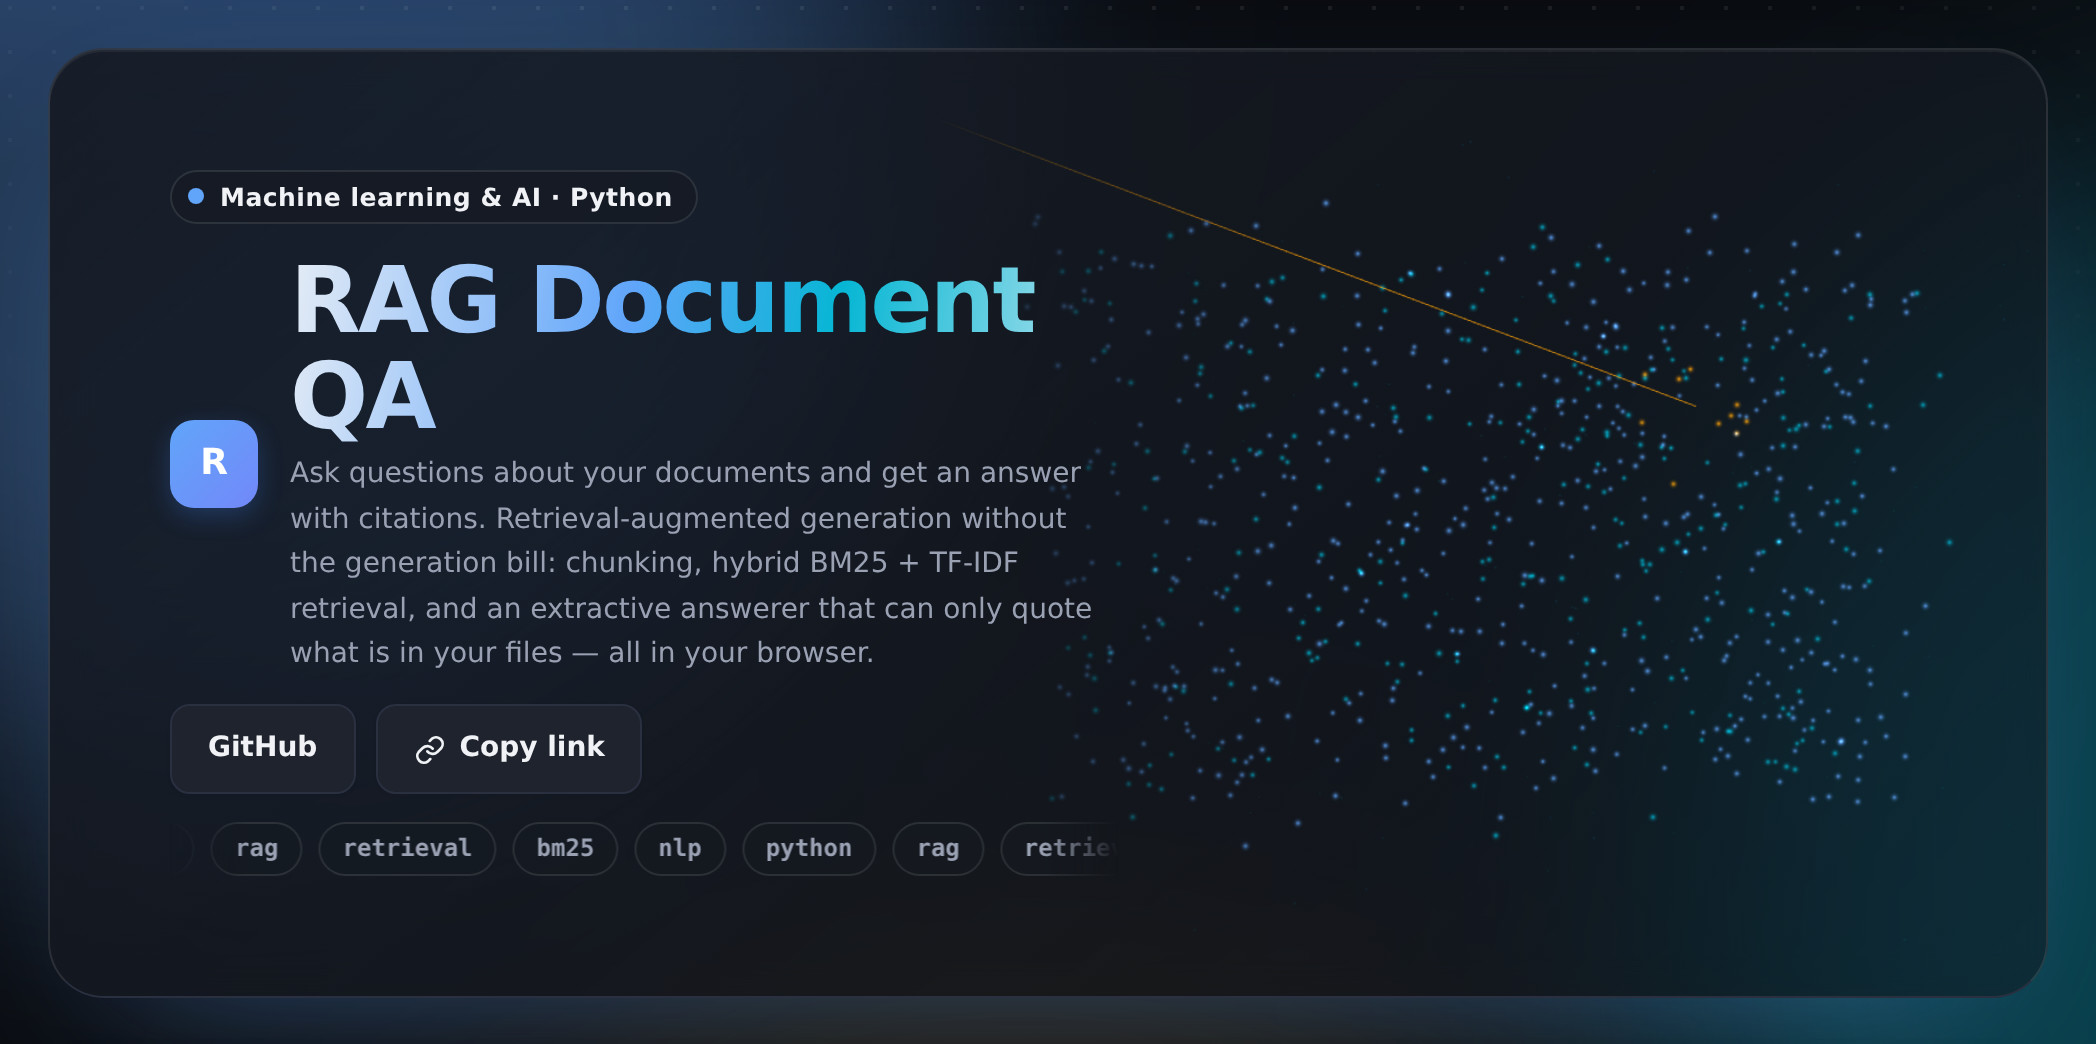
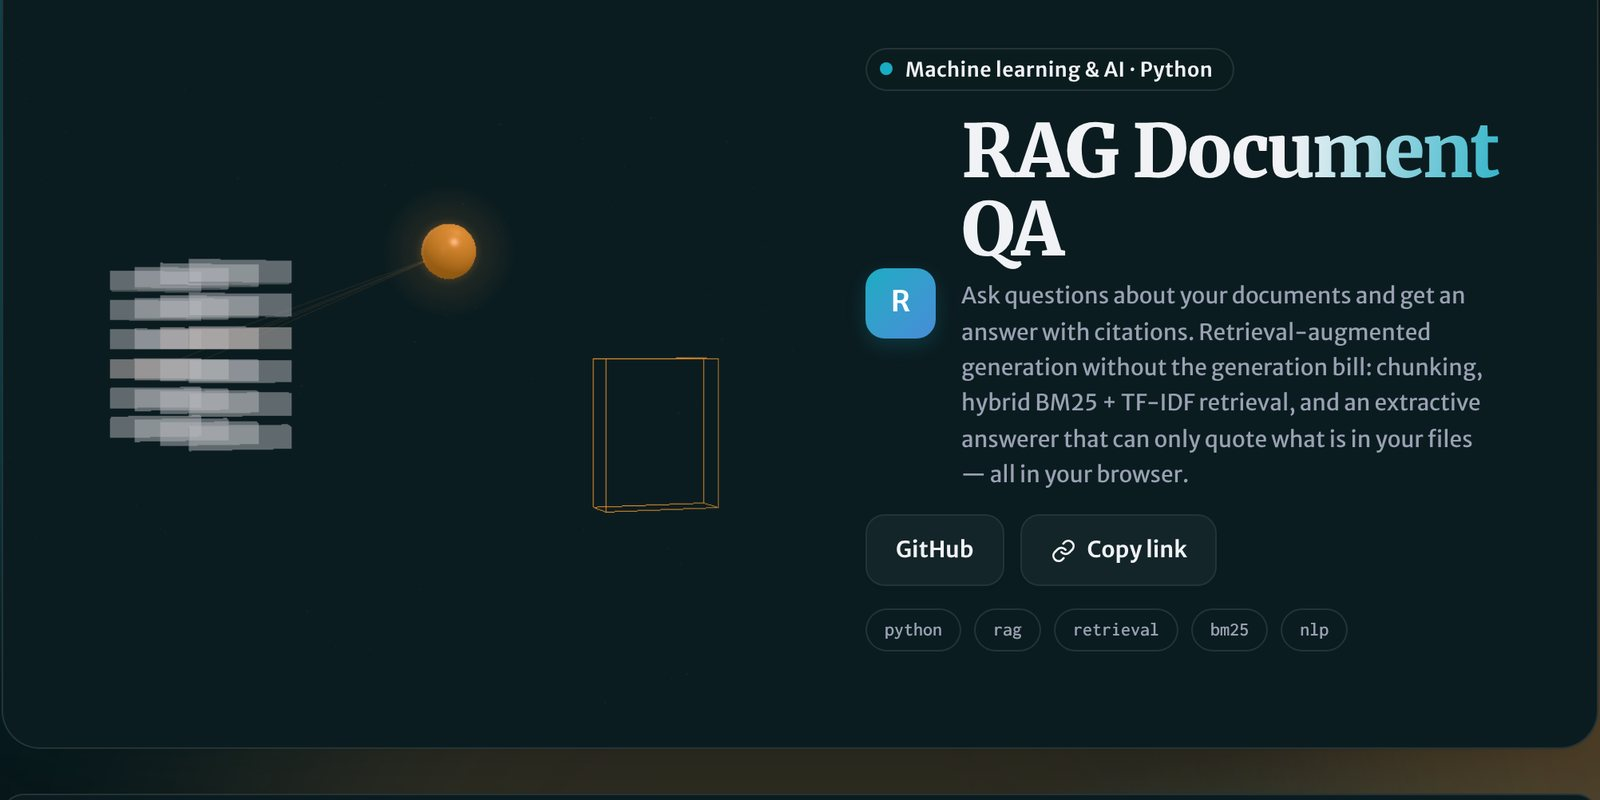
Cleaner page: solid cards and bars with nothing showing through, each tag shown once, no floating 3D window; search tags and fresh previews

diff --git a/docs/fx.css b/docs/fx.css
@@ -18,16 +18,11 @@ body { isolation: isolate; }
 .fx-cursor { position: fixed; left: 0; top: 0; z-index: -1; width: 560px; height: 560px; margin: -280px 0 0 -280px; border-radius: 50%; pointer-events: none; opacity: 0; transition: opacity .4s; background: radial-gradient(circle, color-mix(in srgb, var(--accent) 14%, transparent), transparent 62%); transform: translate3d(var(--x, -999px), var(--y, -999px), 0); }
 .fx-cursor.on { opacity: 1; }
 
-/* the hero: a glass panel with the 3D scene on the right (behind the text on phones) */
+/* the hero: one solid panel with the 3D scene on the right (behind the text on phones) */
 .fx-hero { --pad: clamp(24px, 5vw, 60px); position: relative; isolation: isolate; overflow: hidden; display: flex; flex-direction: column; justify-content: center; align-items: flex-start; gap: 14px;
   min-height: clamp(380px, 56vh, 580px); margin-top: 14px; padding: var(--pad); border: 1px solid var(--fx-line); border-radius: 28px;
-  background: linear-gradient(140deg, color-mix(in srgb, var(--surface, #fff) 92%, transparent), color-mix(in srgb, var(--surface, #fff) 55%, transparent));
-  -webkit-backdrop-filter: blur(10px) saturate(140%); backdrop-filter: blur(10px) saturate(140%); box-shadow: 0 30px 80px -40px color-mix(in srgb, var(--accent) 45%, transparent), 0 1px 0 rgb(255 255 255 / .06) inset; }
-.fx-hero::before { content: ""; position: absolute; inset: -1px; z-index: -1; border-radius: inherit; padding: 1px; pointer-events: none;
-  background: conic-gradient(from var(--fx-angle, 0deg), transparent 0 70%, var(--accent) 80%, var(--fx-2) 88%, transparent 96%);
-  -webkit-mask: linear-gradient(#000 0 0) content-box, linear-gradient(#000 0 0); -webkit-mask-composite: xor; mask-composite: exclude; animation: fx-beam 7s linear infinite; }
-@property --fx-angle { syntax: "<angle>"; inherits: false; initial-value: 0deg; }
-@keyframes fx-beam { to { --fx-angle: 360deg; } }
+  background: var(--surface, #fff);
+  box-shadow: 0 1px 2px rgb(0 0 0 / .06), 0 18px 40px -28px rgb(0 0 0 / .28); }
 .fx-hero > :not(.fx-scene) { position: relative; z-index: 1; max-width: min(600px, 54%); }
 .fx-hero.top > .brand, .fx-hero.top > .actions { max-width: min(600px, 54%); }
 .fx-scene { position: absolute !important; inset: 0 0 0 36%; z-index: 0 !important; pointer-events: none; opacity: 0; transition: opacity 1.4s var(--fx-ease);
@@ -41,10 +36,9 @@ body { isolation: isolate; }
 .fx-title { background: linear-gradient(100deg, var(--text) 0%, var(--text) 30%, var(--accent) 48%, var(--fx-2) 58%, var(--text) 76%) 0 0 / 250% 100%;
   -webkit-background-clip: text; background-clip: text; color: transparent !important; -webkit-text-fill-color: transparent; animation: fx-shine 9s ease-in-out infinite alternate; }
 @keyframes fx-shine { from { background-position: 100% 0; } to { background-position: 0% 0; } }
-.fx-tags { display: flex; gap: 8px; overflow: hidden; width: 100%; -webkit-mask-image: linear-gradient(90deg, transparent, #000 8%, #000 92%, transparent); mask-image: linear-gradient(90deg, transparent, #000 8%, #000 92%, transparent); }
-.fx-tags > div { display: flex; gap: 8px; flex: none; animation: fx-marquee 32s linear infinite; }
-.fx-tags span { flex: none; padding: 4px 11px; border-radius: 999px; font: 600 12px/1.4 var(--mono, ui-monospace, monospace); color: var(--muted); border: 1px solid var(--fx-line); background: color-mix(in srgb, var(--surface, #fff) 60%, transparent); }
-@keyframes fx-marquee { to { transform: translateX(calc(-50% - 4px)); } }
+.fx-tags { display: flex; width: 100%; margin: 0; padding: 0; list-style: none; }
+.fx-tags > div { display: flex; flex-wrap: wrap; gap: 8px; }
+.fx-tags span { flex: none; padding: 4px 11px; border-radius: 999px; font: 600 12px/1.4 var(--mono, ui-monospace, monospace); color: var(--muted); border: 1px solid var(--fx-line); background: var(--surface, #fff); }
 .fx-stats { display: flex; flex-wrap: wrap; gap: 10px 26px; margin-top: 4px; }
 .fx-stats div { display: grid; }
 .fx-stats b { font-size: clamp(22px, 3vw, 30px); font-weight: 800; letter-spacing: -.02em; font-variant-numeric: tabular-nums; }
@@ -52,7 +46,7 @@ body { isolation: isolate; }
 
 /* glass navigation with scroll spy */
 .fx-nav { position: sticky; top: 10px; z-index: 50; display: flex; align-items: center; gap: 6px; margin: 12px 0 0; padding: 6px; border-radius: 16px; border: 1px solid var(--fx-line);
-  background: color-mix(in srgb, var(--surface, #fff) 72%, transparent); -webkit-backdrop-filter: blur(14px) saturate(160%); backdrop-filter: blur(14px) saturate(160%); box-shadow: 0 12px 30px -18px rgb(0 0 0 / .35); overflow-x: auto; scrollbar-width: none; }
+  background: var(--surface, #fff); box-shadow: 0 12px 30px -18px rgb(0 0 0 / .35); overflow-x: auto; scrollbar-width: none; }
 .fx-nav::-webkit-scrollbar { display: none; }
 .fx-nav a { flex: none; padding: 7px 12px; border-radius: 10px; font: 600 13px/1.2 var(--font, system-ui); color: var(--muted); text-decoration: none; transition: color .2s, background .2s; white-space: nowrap; }
 .fx-nav a:hover, .fx-nav a[aria-current="true"] { color: var(--text); background: color-mix(in srgb, var(--accent) 12%, transparent); }
@@ -87,7 +81,7 @@ svg circle.fx-pop { transform-box: fill-box; transform-origin: center; animation
 
 /* the dock: theme, motion, share, back to top */
 .fx-dock { position: fixed; right: max(14px, env(safe-area-inset-right)); bottom: max(14px, env(safe-area-inset-bottom)); z-index: 900; display: flex; gap: 4px; padding: 5px; border-radius: 16px;
-  border: 1px solid var(--fx-line); background: color-mix(in srgb, var(--surface, #fff) 72%, transparent); -webkit-backdrop-filter: blur(14px) saturate(160%); backdrop-filter: blur(14px) saturate(160%);
+  border: 1px solid var(--fx-line); background: var(--surface, #fff);
   box-shadow: 0 16px 40px -18px rgb(0 0 0 / .45); }
 .fx-dock button { display: grid; place-items: center; width: 38px; height: 38px; padding: 0; border: 0; border-radius: 11px; background: transparent; color: var(--text); cursor: pointer; transition: background .2s, transform .25s var(--fx-ease), opacity .3s, width .3s var(--fx-ease); }
 .fx-dock button:hover { background: color-mix(in srgb, var(--accent) 14%, transparent); transform: translateY(-2px); }
@@ -115,7 +109,7 @@ svg circle.fx-pop { transform-box: fill-box; transform-origin: center; animation
   .fx-bg i { filter: blur(50px); }
 }
 @media (prefers-reduced-motion: reduce) {
-  .fx-bg i, .fx-hero::before, .fx-title, .fx-tags > div, .fx-shimmer::after, .fx-eyebrow::before { animation: none !important; }
+  .fx-bg i, .fx-title, .fx-shimmer::after, .fx-eyebrow::before { animation: none !important; }
   .fx-reveal { opacity: 1; transform: none; filter: none; transition: none; }
   svg .fx-draw { animation: none; stroke-dashoffset: 0; }
   svg circle.fx-pop { animation: none; }
@@ -173,21 +167,20 @@ button.fx-reset:hover:not(:disabled) svg { transform: rotate(-70deg); }
 :root[data-look] .btn { border-radius: var(--fx-control-radius); }
 
 /* cards and the hero panel, one family of styles per project */
-:root[data-card="outline"] .card { background: transparent; box-shadow: none; -webkit-backdrop-filter: none; backdrop-filter: none; border: 1px solid color-mix(in srgb, var(--text, #111) 20%, transparent); }
-:root[data-card="outline"] .fx-hero { background: transparent; box-shadow: none; -webkit-backdrop-filter: none; backdrop-filter: none; }
+:root[data-card="outline"] .card { background: var(--surface); box-shadow: none; -webkit-backdrop-filter: none; backdrop-filter: none; border: 1px solid color-mix(in srgb, var(--text, #111) 20%, transparent); }
+:root[data-card="outline"] .fx-hero { box-shadow: none; }
 :root[data-card="solid"] .card { background: var(--surface); -webkit-backdrop-filter: none; backdrop-filter: none; box-shadow: 0 1px 2px rgb(0 0 0 / .06); border: 1px solid var(--border, var(--line)); }
 :root[data-card="solid"] .fx-hero { background: var(--surface); -webkit-backdrop-filter: none; backdrop-filter: none; }
-:root[data-card="raised"] .card { border-color: transparent; box-shadow: 0 26px 50px -30px color-mix(in srgb, var(--accent) 60%, transparent), 0 2px 8px -3px rgb(0 0 0 / .14); }
-:root[data-card="raised"] .fx-hero { box-shadow: 0 40px 90px -45px color-mix(in srgb, var(--accent) 70%, transparent); }
-:root[data-card="brutal"] .card { background: var(--surface); border: 2px solid var(--text, #111); box-shadow: 6px 6px 0 var(--accent); -webkit-backdrop-filter: none; backdrop-filter: none; }
-:root[data-card="brutal"] .fx-hero { background: var(--surface); border: 2px solid var(--text, #111); box-shadow: 9px 9px 0 var(--accent); -webkit-backdrop-filter: none; backdrop-filter: none; }
-:root[data-card="brutal"] .fx-hero::before { display: none; }
+:root[data-card="raised"] .card { border-color: transparent; box-shadow: 0 1px 3px rgb(0 0 0 / .08), 0 14px 32px -22px rgb(0 0 0 / .32); }
+:root[data-card="raised"] .fx-hero { box-shadow: 0 1px 3px rgb(0 0 0 / .08), 0 26px 56px -34px rgb(0 0 0 / .4); }
+:root[data-card="brutal"] .card { background: var(--surface); border: 2px solid color-mix(in srgb, var(--text, #111) 85%, transparent); box-shadow: 0 1px 2px rgb(0 0 0 / .08); -webkit-backdrop-filter: none; backdrop-filter: none; }
+:root[data-card="brutal"] .fx-hero { background: var(--surface); border: 2px solid color-mix(in srgb, var(--text, #111) 85%, transparent); box-shadow: 0 1px 2px rgb(0 0 0 / .08); -webkit-backdrop-filter: none; backdrop-filter: none; }
 :root[data-card="brutal"] .btn { border-width: 2px; }
 :root[data-card="tint"] .card { background: color-mix(in srgb, var(--accent) 7%, var(--surface)); border-color: color-mix(in srgb, var(--accent) 24%, transparent); }
 :root[data-card="tint"] .fx-hero { background: linear-gradient(140deg, color-mix(in srgb, var(--accent) 11%, var(--surface)), color-mix(in srgb, var(--fx-2) 9%, var(--surface))); }
 :root[data-card="rail"] .card { border-left: 4px solid var(--accent); }
 :root[data-card="rail"] .fx-hero { border-left: 6px solid var(--accent); }
-:root[data-card="glass"] .card { background: color-mix(in srgb, var(--surface) 58%, transparent); -webkit-backdrop-filter: blur(20px) saturate(170%); backdrop-filter: blur(20px) saturate(170%); border: 1px solid color-mix(in srgb, #fff 22%, transparent); box-shadow: 0 1px 0 rgb(255 255 255 / .12) inset, 0 18px 40px -30px rgb(0 0 0 / .4); }
+:root[data-card="glass"] .card { background: color-mix(in srgb, var(--surface) 94%, transparent); -webkit-backdrop-filter: blur(14px); backdrop-filter: blur(14px); border: 1px solid color-mix(in srgb, var(--text, #111) 12%, transparent); box-shadow: 0 1px 2px rgb(0 0 0 / .06), 0 16px 36px -28px rgb(0 0 0 / .35); }
 :root[data-card="soft"] .card { border-color: transparent; background: color-mix(in srgb, var(--accent) 4%, var(--surface)); box-shadow: inset 0 0 0 1px color-mix(in srgb, var(--accent) 13%, transparent), 0 14px 32px -24px rgb(0 0 0 / .35); }
 :root[data-card="soft"] .fx-hero { border-color: transparent; }
 
@@ -205,7 +198,7 @@ button.fx-reset:hover:not(:disabled) svg { transform: rotate(-70deg); }
   html[data-hero="center"] :is(.fx-hero, header.top.fx-hero) { align-items: center; text-align: center; padding-bottom: calc(var(--pad) + 270px); justify-content: flex-start; }
   html[data-hero="center"] .fx-hero > :not(.fx-scene), html[data-hero="center"] header.top.fx-hero > :is(.brand, .actions), html[data-hero="center"] header.top.fx-hero .fx-tags { max-width: min(760px, 100%); }
   html[data-hero="center"] header.top.fx-hero > .brand { flex-direction: column; text-align: center; }
-  html[data-hero="center"] :is(.fx-hero .links, header.top.fx-hero > .actions) { justify-content: center; }
+  html[data-hero="center"] :is(.fx-hero .links, header.top.fx-hero > .actions, .fx-tags, .fx-tags > div) { justify-content: center; }
   html[data-hero="center"] .fx-hero .fx-scene, html[data-hero="center"][data-fx-compact] .fx-hero .fx-scene { inset: auto 0 0 0; height: 310px; -webkit-mask-image: linear-gradient(0deg, #000 74%, transparent); mask-image: linear-gradient(0deg, #000 74%, transparent); }
 }
 
@@ -221,7 +214,7 @@ button.fx-reset:hover:not(:disabled) svg { transform: rotate(-70deg); }
 :root[data-motif="plain"] .fx-bg i { opacity: .12; }
 /* the scene follows the reader in a corner window once the hero scrolls away (wide screens only) */
 .fx-pip { position: fixed; left: 18px; bottom: 18px; z-index: 60; width: 200px; height: 130px; border-radius: 16px; overflow: hidden; cursor: pointer; isolation: isolate;
-  background: color-mix(in srgb, var(--surface, #fff) 70%, transparent); -webkit-backdrop-filter: blur(16px) saturate(160%); backdrop-filter: blur(16px) saturate(160%);
+  background: var(--surface, #fff);
   border: 1px solid color-mix(in srgb, var(--accent) 32%, transparent); box-shadow: 0 26px 50px -26px color-mix(in srgb, var(--accent) 60%, transparent), 0 2px 10px rgb(0 0 0 / .12);
   opacity: 0; transform: translateY(18px) scale(.94); transition: opacity .45s var(--fx-ease, ease), transform .45s var(--fx-ease, ease); }
 .fx-pip.on { opacity: 1; transform: none; }
@@ -238,7 +231,7 @@ body:has(input:focus, textarea:focus, select:focus, [contenteditable]:focus) .fx
 :root[data-look] .fx-reveal { transform: perspective(1100px) translateY(30px) rotateX(9deg) scale(.985); transform-origin: 50% 0; }
 :root[data-look] .fx-reveal.fx-in { transform: none; }
 :root[data-look] .card:focus-within { border-color: color-mix(in srgb, var(--accent) 55%, transparent); box-shadow: 0 0 0 1px color-mix(in srgb, var(--accent) 45%, transparent), 0 22px 44px -26px color-mix(in srgb, var(--accent) 65%, transparent); transition: box-shadow .35s, border-color .35s; }
-:root[data-card="brutal"] .card:focus-within { box-shadow: 8px 8px 0 var(--accent); }
+:root[data-card="brutal"] .card:focus-within { box-shadow: 0 0 0 3px color-mix(in srgb, var(--accent) 40%, transparent); }
 /* the page pattern drifts slowly */
 :root[data-look]:not([data-motif="plain"]):not([data-motif="noise"]) .fx-bg b { animation: fx-pan 90s linear infinite; }
 :root[data-motif="grid"] .fx-bg b { --fx-pan: 46px 46px; }

diff --git a/docs/index.html b/docs/index.html
@@ -4,11 +4,6 @@
 <meta charset="utf-8">
 <meta name="viewport" content="width=device-width, initial-scale=1">
 <title>RAG Document QA — Interactive Demo</title>
-<meta property="og:type" content="website">
-<meta property="og:title" content="RAG Document QA — Interactive Demo">
-<meta property="og:description" content="Retrieval-augmented document QA with hybrid BM25 + TF-IDF retrieval — runs in your browser.">
-<meta property="og:url" content="https://umer-78.github.io/rag-document-qa/">
-<meta name="twitter:card" content="summary">
 <meta name="description" content="Retrieval-augmented document QA with hybrid BM25 + TF-IDF retrieval — runs in your browser.">
 <meta name="theme-color" content="#058092" media="(prefers-color-scheme: light)">
 <meta name="theme-color" content="#041215" media="(prefers-color-scheme: dark)">
@@ -265,6 +260,8 @@ html.mk-pre header.top, html.mk-pre main section, html.mk-pre section.card, html
 :root[data-look][data-theme="dark"] { --accent: #19acc3; --accent-hover: #22c0da; --accent-soft: rgb(25 172 195 / 0.14); --accent-glow: rgb(25 172 195 / 0.2); --on-accent: #011519; --fx-2: #ef9b48; --fx-3: #fda856; --bg: #041215; --bg-elevated: #09191c; --surface: #0b1c20; --surface-2: #132528; --surface-3: #1d2f32; --border: #253336; --border-strong: #364549; --line: #253336; }</style>
 <link rel="modulepreload" href="https://cdn.jsdelivr.net/npm/three@0.186.1/build/three.module.min.js" data-fx>
 <link rel="modulepreload" href="fx3d.js" data-fx>
+<link rel="canonical" href="https://umer-78.github.io/rag-document-qa/">
+<script type="application/ld+json">{"@context": "https://schema.org", "@type": "WebApplication", "name": "RAG Document QA — Interactive Demo", "url": "https://umer-78.github.io/rag-document-qa/", "applicationCategory": "DeveloperApplication", "operatingSystem": "Any (runs in a web browser)", "isAccessibleForFree": true, "author": {"@type": "Person", "name": "Umer Hashmi", "url": "https://umer-78.github.io/"}, "description": "Retrieval-augmented document QA with hybrid BM25 + TF-IDF retrieval — runs in your browser.", "image": "https://umer-78.github.io/rag-document-qa/og.jpg", "sameAs": "https://github.com/umer-78/rag-document-qa"}</script>
 </head>
 <body>
   <a class="skip-link" href="#main">Skip to content</a>
@@ -285,7 +282,7 @@ html.mk-pre header.top, html.mk-pre main section, html.mk-pre section.card, html
   <div class="actions">
     <a class="btn" href="https://github.com/umer-78/rag-document-qa" rel="noopener">GitHub</a>
   </div>
-  <div class="fx-tags" aria-hidden="true"><div><span>python</span><span>rag</span><span>retrieval</span><span>bm25</span><span>nlp</span><span>python</span><span>rag</span><span>retrieval</span><span>bm25</span><span>nlp</span></div></div>
+  <div class="fx-tags"><div><span>python</span><span>rag</span><span>retrieval</span><span>bm25</span><span>nlp</span></div></div>
     </header>
 
 <main id="main">

diff --git a/docs/fx3d.js b/docs/fx3d.js
@@ -315,30 +315,7 @@ export function mount(host, kind = 'ml') {
   }
   const wake = () => { if (!stopped && (visible || pip) && !raf) { last = performance.now(); raf = requestAnimationFrame(frame); } };
   addEventListener('fx:motion', wake);
-  // once the hero scrolls away on a wide screen, the scene follows the reader in a small window at the corner
-  const roomy = matchMedia('(min-width: 1360px) and (pointer: fine)');
-  let dismissed = false;
-  try { dismissed = sessionStorage.getItem('fx:pip') === 'off'; } catch { /* storage blocked */ }
-  const dock = (on) => {
-    if (on === pip || stopped) return;
-    if (on && !shell) {
-      shell = document.createElement('div');
-      shell.className = 'fx-pip';
-      shell.title = 'Back to the top';
-      shell.innerHTML = '<button type="button" aria-label="Close the 3D window">&times;</button>';
-      shell.addEventListener('click', (ev) => {
-        if (ev.target.closest('button')) { dismissed = true; try { sessionStorage.setItem('fx:pip', 'off'); } catch { /* storage blocked */ } dock(false); return; }
-        host.scrollIntoView({ behavior: reduce ? 'auto' : 'smooth', block: 'start' });
-      });
-      document.body.append(shell);
-    }
-    pip = on;
-    if (on) { shell.prepend(box); requestAnimationFrame(() => shell.classList.add('on')); }
-    else { shell?.classList.remove('on'); host.prepend(box); }
-    fit();
-    wake();
-  };
-  new IntersectionObserver(([e]) => { visible = e.isIntersecting; dock(!visible && roomy.matches && !dismissed); wake(); }).observe(host);
+  new IntersectionObserver(([e]) => { visible = e.isIntersecting; wake(); }).observe(host);
   document.addEventListener('visibilitychange', () => { if (!document.hidden) wake(); });
   raf = requestAnimationFrame((n) => { frame(n); box.classList.add('on'); });
   return {
